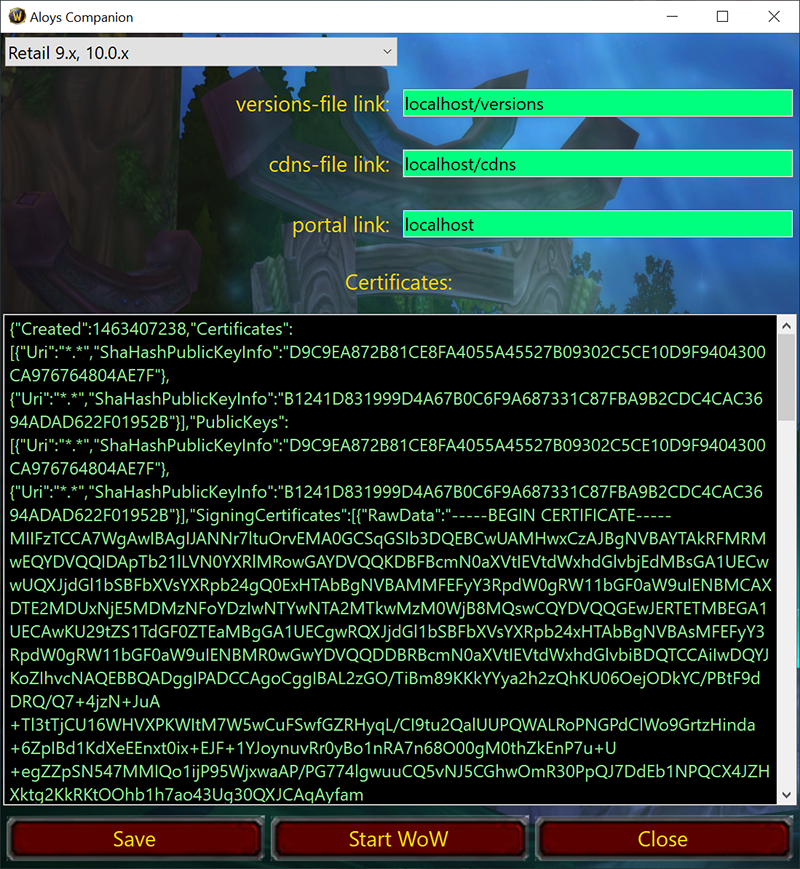
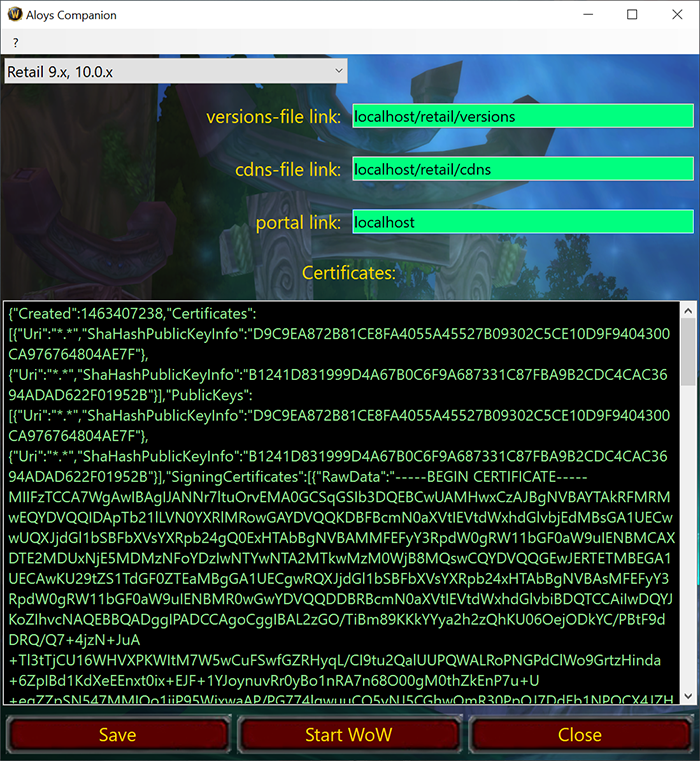
readme and screenshot updated

diff --git a/README.md b/README.md
@@ -5,7 +5,7 @@ Modified version derived from the Arctium WoW-Launcher with some great new featu
 Actually I externalized CDN links for versions and cdns file. Also the certs for adding own self signed certs to the launcher and server.<br />
 These files are needed for real independency from any servers. The actual Arctium WoW Launcher does link hardcoded to it's own CDN and hardcodes the certs, but this is crap. It's not good to be dependent from anothers server and hardcoded certs. The self signed TrinityCore certs are in the src and best known, so anyone can decrypt the connection. With own self signed certs, you are secure.<br />
 Do you want dependency from a random person? Sure, you won't! So, here is my solution, the real deal, for self-sufficiency.
-You can host the files in your own lab or with local httpd on localhost. Files are here: https://github.com/V-Cyberpunk/World-of-Warcraft-Local-CDN-files
+You can host the files in your own lab or with local httpd included in the companiontool on localhost. Files are here for your lab: https://github.com/V-Cyberpunk/World-of-Warcraft-Local-CDN-files
 
 ## Example
 For example: if your machines hostname is "tc-server" and versions file is in "/var/www/html/versions" your entry for versions.conf will be "tc-server/versions".<br />
